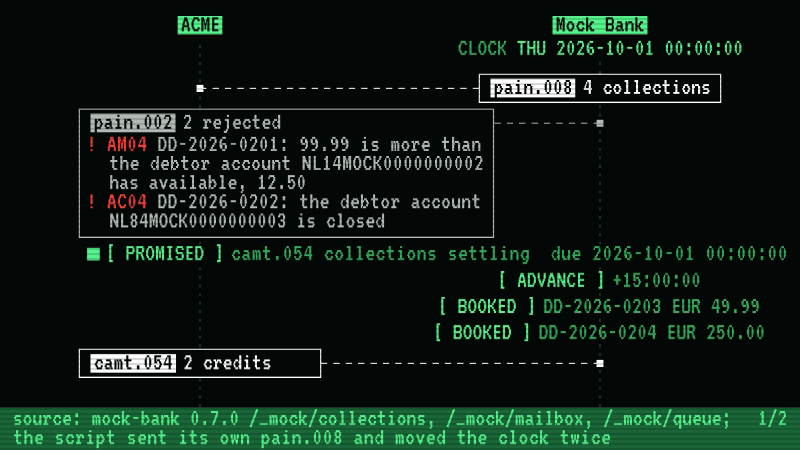
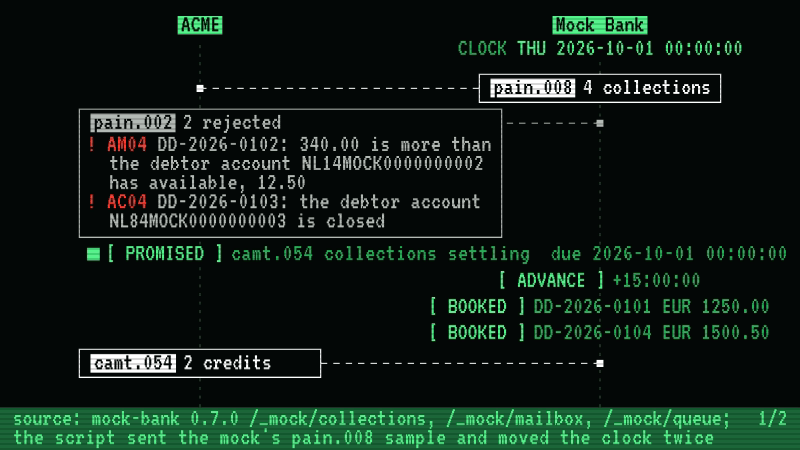
Sync films to mock-films 0712e3d: bank_dd_film sends the mock's sample
bank_dd_film is re-captured sending mock-bank's own pain.008 sample, so
its amounts are the sample's (340.00 rejected, 1250.00 and 1500.50
booked, close 127750.50). New still and alt; the caption and poster
frame are unchanged.

Claude-Session: https://claude.ai/code/session_015RDTBgG3oYVSZTAaz1gNwq

diff --git a/mock-bank/index.html b/mock-bank/index.html
@@ -46,7 +46,7 @@ image: /blog/bank_four_payments_film.png
 			<figcaption>the same invoices, in usd, as nacha <span>drawn by mock-films from a real run</span></figcaption>
 		</figure>
 		<figure class="film">
-			<a class="play" href="/blog/bank_dd_film.gif" data-poster-ms="22100" title="play the film"><img src="/blog/bank_dd_film.png" width="800" height="450" loading="lazy" alt="ACME sends mock-bank a file of four direct debits to collect in euro, which the script wrote itself, and the bank's status report rejects two with a reason for each: one debtor, a seeded account, has 12.50 against the 99.99 asked, and the other's account is closed. The bank's own queue says a credit notification is due on the settlement day, which the film shows as a promise. The capture then advances the bank's clock twice: the other two collections, from debtors at other banks, are booked and credited to ACME in the credit notification, which keeps the promise, and then in a statement closing at 125299.99. The rejected two appear in neither."></a>
+			<a class="play" href="/blog/bank_dd_film.gif" data-poster-ms="22100" title="play the film"><img src="/blog/bank_dd_film.png" width="800" height="450" loading="lazy" alt="ACME sends mock-bank the bank's own sample file of four direct debits to collect in euro, and the bank's status report rejects two with a reason for each: one debtor, a seeded account, has 12.50 against the 340.00 asked, and the other's account is closed. The bank's own queue says a credit notification is due on the settlement day, which the film shows as a promise. The capture then advances the bank's clock twice: the other two collections, one from an account the bank does not hold, which it treats as being at another bank, and one from Eurodis, an account it does hold and has nothing against, are booked and credited to ACME in the credit notification, which keeps the promise, and then in a statement closing at 127750.50. The rejected two appear in neither."></a>
 			<figcaption>four direct debits, half of them rejected <span>drawn by mock-films from a real run</span></figcaption>
 		</figure>
 <pre><code>pip install mock-bank
